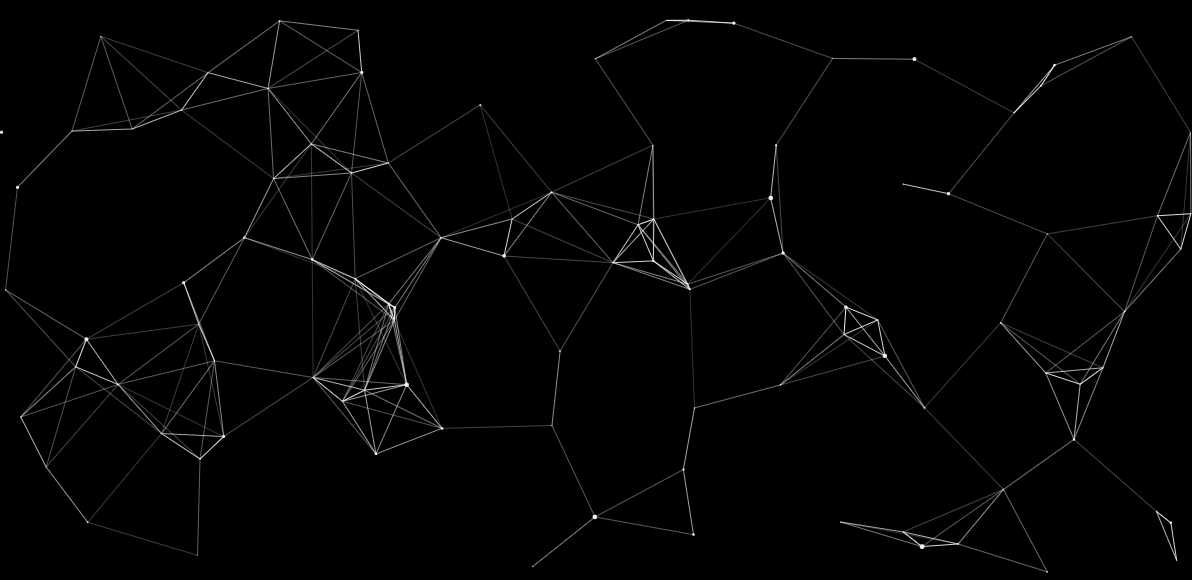
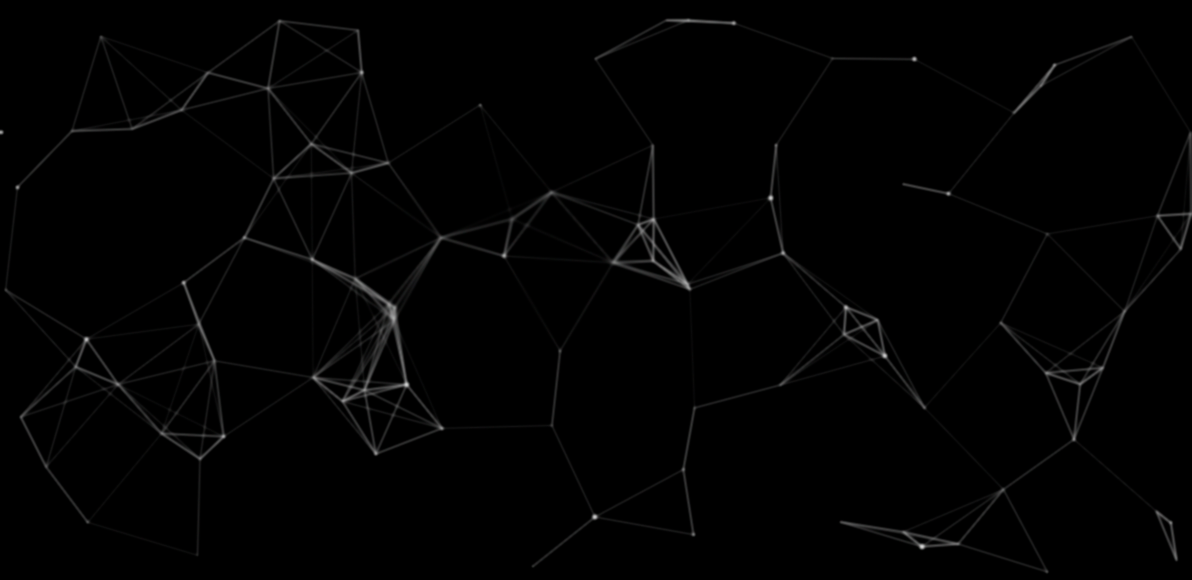
adding preloader and deleting bg blur

diff --git a/src/components/Preloader.jsx b/src/components/Preloader.jsx
@@ -1,0 +1,68 @@
+import React, { useEffect, useState } from 'react';
+import '../styles/preloader.css';
+import { music } from '../constants';
+
+const Preloader = () => {
+	const [loadingPercents, setLoadingPercents] = useState(0);
+
+	useEffect(() => {
+		const mediaFiles = document.querySelectorAll('img');
+		const audioFiles = music.map((fileName) => `./music/${fileName}.mp3`);
+		const allFiles = [...mediaFiles, ...audioFiles];
+
+		// const image = new Image();
+		// image.src = './assets/pause.png';
+
+		let loadedFiles = 0;
+
+		const updatePercents = () => {
+			const percent = Math.round((loadedFiles / allFiles.length) * 100);
+			setLoadingPercents(percent);
+		};
+
+		const handleLoad = () => {
+			loadedFiles++;
+			updatePercents();
+
+			if (loadedFiles === allFiles.length) {
+				document.getElementById('preloader').classList.add('preloader--hide');
+			}
+		};
+
+		allFiles.forEach((file) => {
+			const element = new Image();
+			element.src = file;
+
+			element.addEventListener('load', handleLoad);
+			element.addEventListener('error', handleLoad);
+		});
+
+		return () => {
+			allFiles.forEach((file) => {
+				const element = new Image();
+				element.src = file;
+
+				element.removeEventListener('load', handleLoad);
+				element.removeEventListener('error', handleLoad);
+			});
+		};
+	}, []);
+
+	return (
+		<div id="preloader">
+			<div className="preloader-loader">
+				<div className="loader">
+					<div className="loader-circles">
+						<div></div>
+						<div></div>
+					</div>
+				</div>
+				<span className="preloader-percents">
+					<span>{loadingPercents}</span>%
+				</span>
+			</div>
+		</div>
+	);
+};
+
+export default Preloader;

diff --git a/src/styles/preloader.css b/src/styles/preloader.css
@@ -1,0 +1,91 @@
+#preloader {
+	position: absolute;
+	left: 0;
+	top: 0;
+	width: 100%;
+	height: 100%;
+	background-color: black;
+	z-index: 5;
+	opacity: 1;
+	transition: all 1s ease-out;
+}
+
+.preloader--hide {
+	opacity: 0;
+	visibility: hidden;
+	z-index: -5;
+}
+
+#preloader > .preloader-loader {
+	position: absolute;
+	top: 50%;
+	left: 50%;
+	transform: translate(-50%, -50%);
+}
+
+#preloader > .preloader-loader > .preloader-percents {
+	position: absolute;
+	top: 50%;
+	left: 50%;
+	transform: translate(-50%, -65%);
+	color: #e6e6e6;
+	font-size: 16px;
+	font-weight: 800;
+}
+
+@keyframes loader-circles {
+	0% {
+		top: 89.16px;
+		left: 87.16px;
+		width: 30px;
+		height: 30px;
+		opacity: 1;
+	}
+	100% {
+		top: -2.17px;
+		left: -2.17px;
+		width: 212.66px;
+		height: 212.66px;
+		opacity: 0;
+	}
+}
+
+.loader-circles div {
+	position: absolute;
+	border-width: 4.34px;
+	border-style: solid;
+	opacity: 1;
+	border-radius: 50%;
+	animation: loader-circles 5s cubic-bezier(0, 0.2, 0.8, 1) infinite;
+}
+
+.loader-circles div:nth-child(1) {
+	border-color: #787878;
+	animation-delay: 0s;
+}
+
+.loader-circles div:nth-child(2) {
+	border-color: #5a5a5a;
+	animation-delay: -2.5s;
+}
+
+.loader {
+	width: 217px;
+	height: 217px;
+	display: inline-block;
+	overflow: hidden;
+	background: rgba(241, 242, 243, 0);
+}
+
+.loader-circles {
+	width: 100%;
+	height: 100%;
+	position: relative;
+	transform: translateZ(0) scale(1);
+	backface-visibility: hidden;
+	transform-origin: 0 0;
+}
+
+.loader-circles div {
+	box-sizing: content-box;
+}

diff --git a/src/components/Visualizer.jsx b/src/components/Visualizer.jsx
@@ -16,7 +16,6 @@ const Music = () => {
 	let interval = 5;
 
 	const preload = (p5) => {
-		img = p5.loadImage('./assets/bg.png');
 		for (let i = 0; i < music.length; i++) {
 			songs[i] = p5.loadSound(`./music/${music[i]}.mp3`);
 		}
@@ -29,8 +28,9 @@ const Music = () => {
 		p5.angleMode(p5.DEGREES);
 		p5.imageMode(p5.CENTER);
 		p5.rectMode(p5.CENTER);
+		img = p5.loadImage('./assets/bg.png');
+
 		fft = new window.p5.FFT(0.9);
-		img.filter(p5.BLUR, 2);
 	};
 
 	const draw = (p5) => {

diff --git a/src/App.js b/src/App.js
@@ -1,13 +1,22 @@
 import Visualizer from './components/Visualizer';
 import Portfolio from './components/Portfolio';
+import Preloader from './components/Preloader';
 
 function App() {
 	return (
-		<div className="App">
-			<Visualizer />
-			<Portfolio />
-		</div>
+		<>
+			<div className="App">
+				<Preloader />
+				<Visualizer />
+				<Portfolio />
+			</div>
+		</>
 	);
 }
 
 export default App;
+
+/* 
+	Volume bug
+	Preloader Pause and others bug
+*/

diff --git a/src/styles/player.css b/src/styles/player.css
@@ -46,7 +46,7 @@
 	display: flex;
 	align-items: center;
 	justify-content: center;
-	padding: 5px 0px;
+	padding: 5px 0px 8px 0px;
 }
 
 #player > .player-cont > .slider-cont > .slider > input {

diff --git a/src/index.css b/src/index.css
@@ -11,7 +11,7 @@ body,
 	display: flex;
 	justify-content: center;
 	align-items: center;
-	background-color: #f0f0f0; /* Цвет фона */
+	background-color: #f0f0f0;
 }
 
 canvas {
